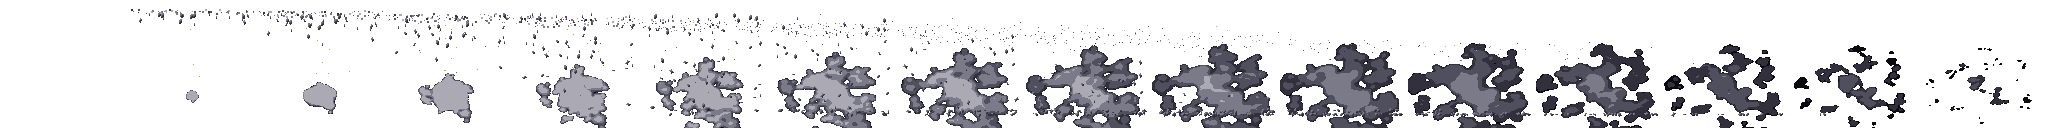
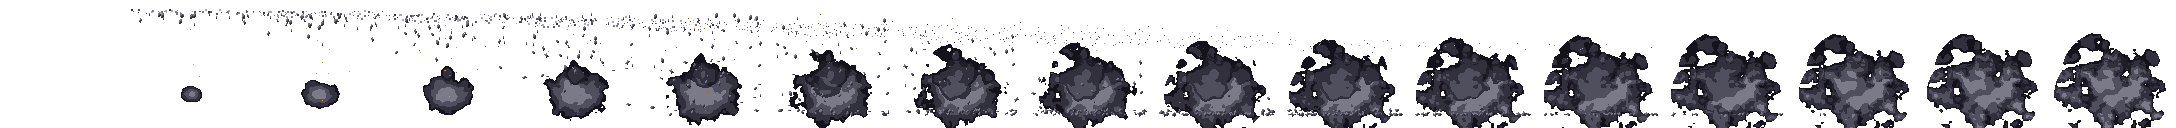
Corrupted walls: redo the veins (curved roots, pulse that runs outward) and the ash cloud (ragged drifting dust that thins to haze), no purple in the sheets

diff --git a/tools/art/gen_corruption.py b/tools/art/gen_corruption.py
@@ -37,13 +37,26 @@ def slice_atlas(name):
     return frames, round(1000.0 / (sum(durations) / len(durations)), 2)
 
 
+def no_purple(img):
+    """The palette snap sends some blended mid-greys of the translucent dust to bruise purple (violet is the nearest palette
+    colour to a cold grey). These effects have no purple in them, so each bruise colour goes to the grey of its brightness."""
+    swap = {tuple(PAL[b]): tuple(PAL[g]) for b, g in (("bruise_900", "stone_900"), ("bruise_700", "stone_700"), ("bruise_500", "stone_500"))}
+    px = img.load()
+    for y in range(img.height):
+        for x in range(img.width):
+            r, g, b, a = px[x, y]
+            if a and (r, g, b) in swap:
+                px[x, y] = (*swap[(r, g, b)], a)
+    return img
+
+
 def build_sheet(name):
     frames, fps = slice_atlas(name)
     w, h = frames[0].size
     sheet = Image.new("RGBA", (w * len(frames), h), (0, 0, 0, 0))
     for i, f in enumerate(frames):
         sheet.paste(f, (i * w, 0))
-    written = [save_png(PAL.snap(sheet), f"corruption/{name}_sheet.png")]
+    written = [save_png(no_purple(PAL.snap(sheet)), f"corruption/{name}_sheet.png")]
     path = ART_DIR / "corruption" / f"{name}_sheet.json"
     path.write_text(json.dumps({"frames": len(frames), "fps": fps, "frame_w": w, "frame_h": h}, indent=2))
     return written + [path]

diff --git a/docs/asset_log.md b/docs/asset_log.md
@@ -13,9 +13,9 @@ Entries before 2026-11-09 were filled in afterwards from the git history and the
 | `tools/art/pieces/ui/ruin_stone.png` (stone for `art/ui/arrow_*.png`) | `create_image_pixflux` | 2026-11-07 | 1 |
 | `art/ui/arrow_*.png` first attempts (shaded and ruined arrows, replaced by the script version) | `edit_image_pixen` | 2026-11-07 | 17 (1 + 1 + 1 + 12 + 2 rejected tries; discarded) |
 | `art/tiles/wall_corrupted.png` (kept; source `tools/art/pieces/corruption/wall_raw.png`) | `create_image_pixflux` | 2026-11-09 | 1 (3 tries: 1 kept; the other 2, a dark brick and an archway, are discarded) |
-| `art/corruption/veins_sheet.png` (source `tools/art/pieces/corruption/veins.png`): the pulsing green curse veins, a 12-frame loop | `vfx_workbench` (own layers: branching `bolt` veins with a heartbeat pulse, plus a `glow`; effect "eye-of-bell-corruption-veins") | 2026-11-09 | 0 (free tool) |
+| `art/corruption/veins_sheet.png` (source `tools/art/pieces/corruption/veins.png`): the pulsing green curse veins, a 12-frame loop. Redone 2026-11-09 as curved, tapering roots with side-branches and a pulse that runs outward from the heart (the first version was jagged lightning-like `bolt` layers) | `vfx_workbench` (own layers: smooth `shape` strokes with `reveal` for the travelling pulse, plus a `glow`; effect "eye-of-bell-corruption-veins", exported with `--replace`) | 2026-11-09 | 0 (free tool) |
 | `art/corruption/purge_sheet.png` (source `.../purge.png`): the gold holy light burning the veins away from the centre outward, 14 frames | `vfx_workbench` (own layers: `glow`, `ring`, `rays`, `particles`; "eye-of-bell-holy-purge") | 2026-11-09 | 0 (free tool) |
-| `art/corruption/ash_sheet.png` (source `.../ash.png`): the wall crumbling to ash and dust, 17 frames | `vfx_workbench` (own layers: `puffs`, falling `particles`; "eye-of-bell-ash-crumble") | 2026-11-09 | 0 (free tool) |
+| `art/corruption/ash_sheet.png` (source `.../ash.png`): the wall crumbling to ash and dust, 17 frames. Redone 2026-11-09: the dust is now two ragged, drifting layers that thin to a haze (the first version was one flat blob) | `vfx_workbench` (own layers: two `noise` discs on a dark ramp with growing radius and fading opacity, falling `particles`; "eye-of-bell-ash-crumble", exported with `--replace`) | 2026-11-09 | 0 (free tool) |
 | `art/intro/shot_01_road.png` | `create_image_pro` | 2026-11-07 | 25 |
 | `art/intro/shot_02_travellers.png` | `create_image_pro` | 2026-11-07 | 50 (one rejected try) |
 | `art/intro/shot_03_crow.png` | `create_image_pro` | 2026-11-07 | 25 |
